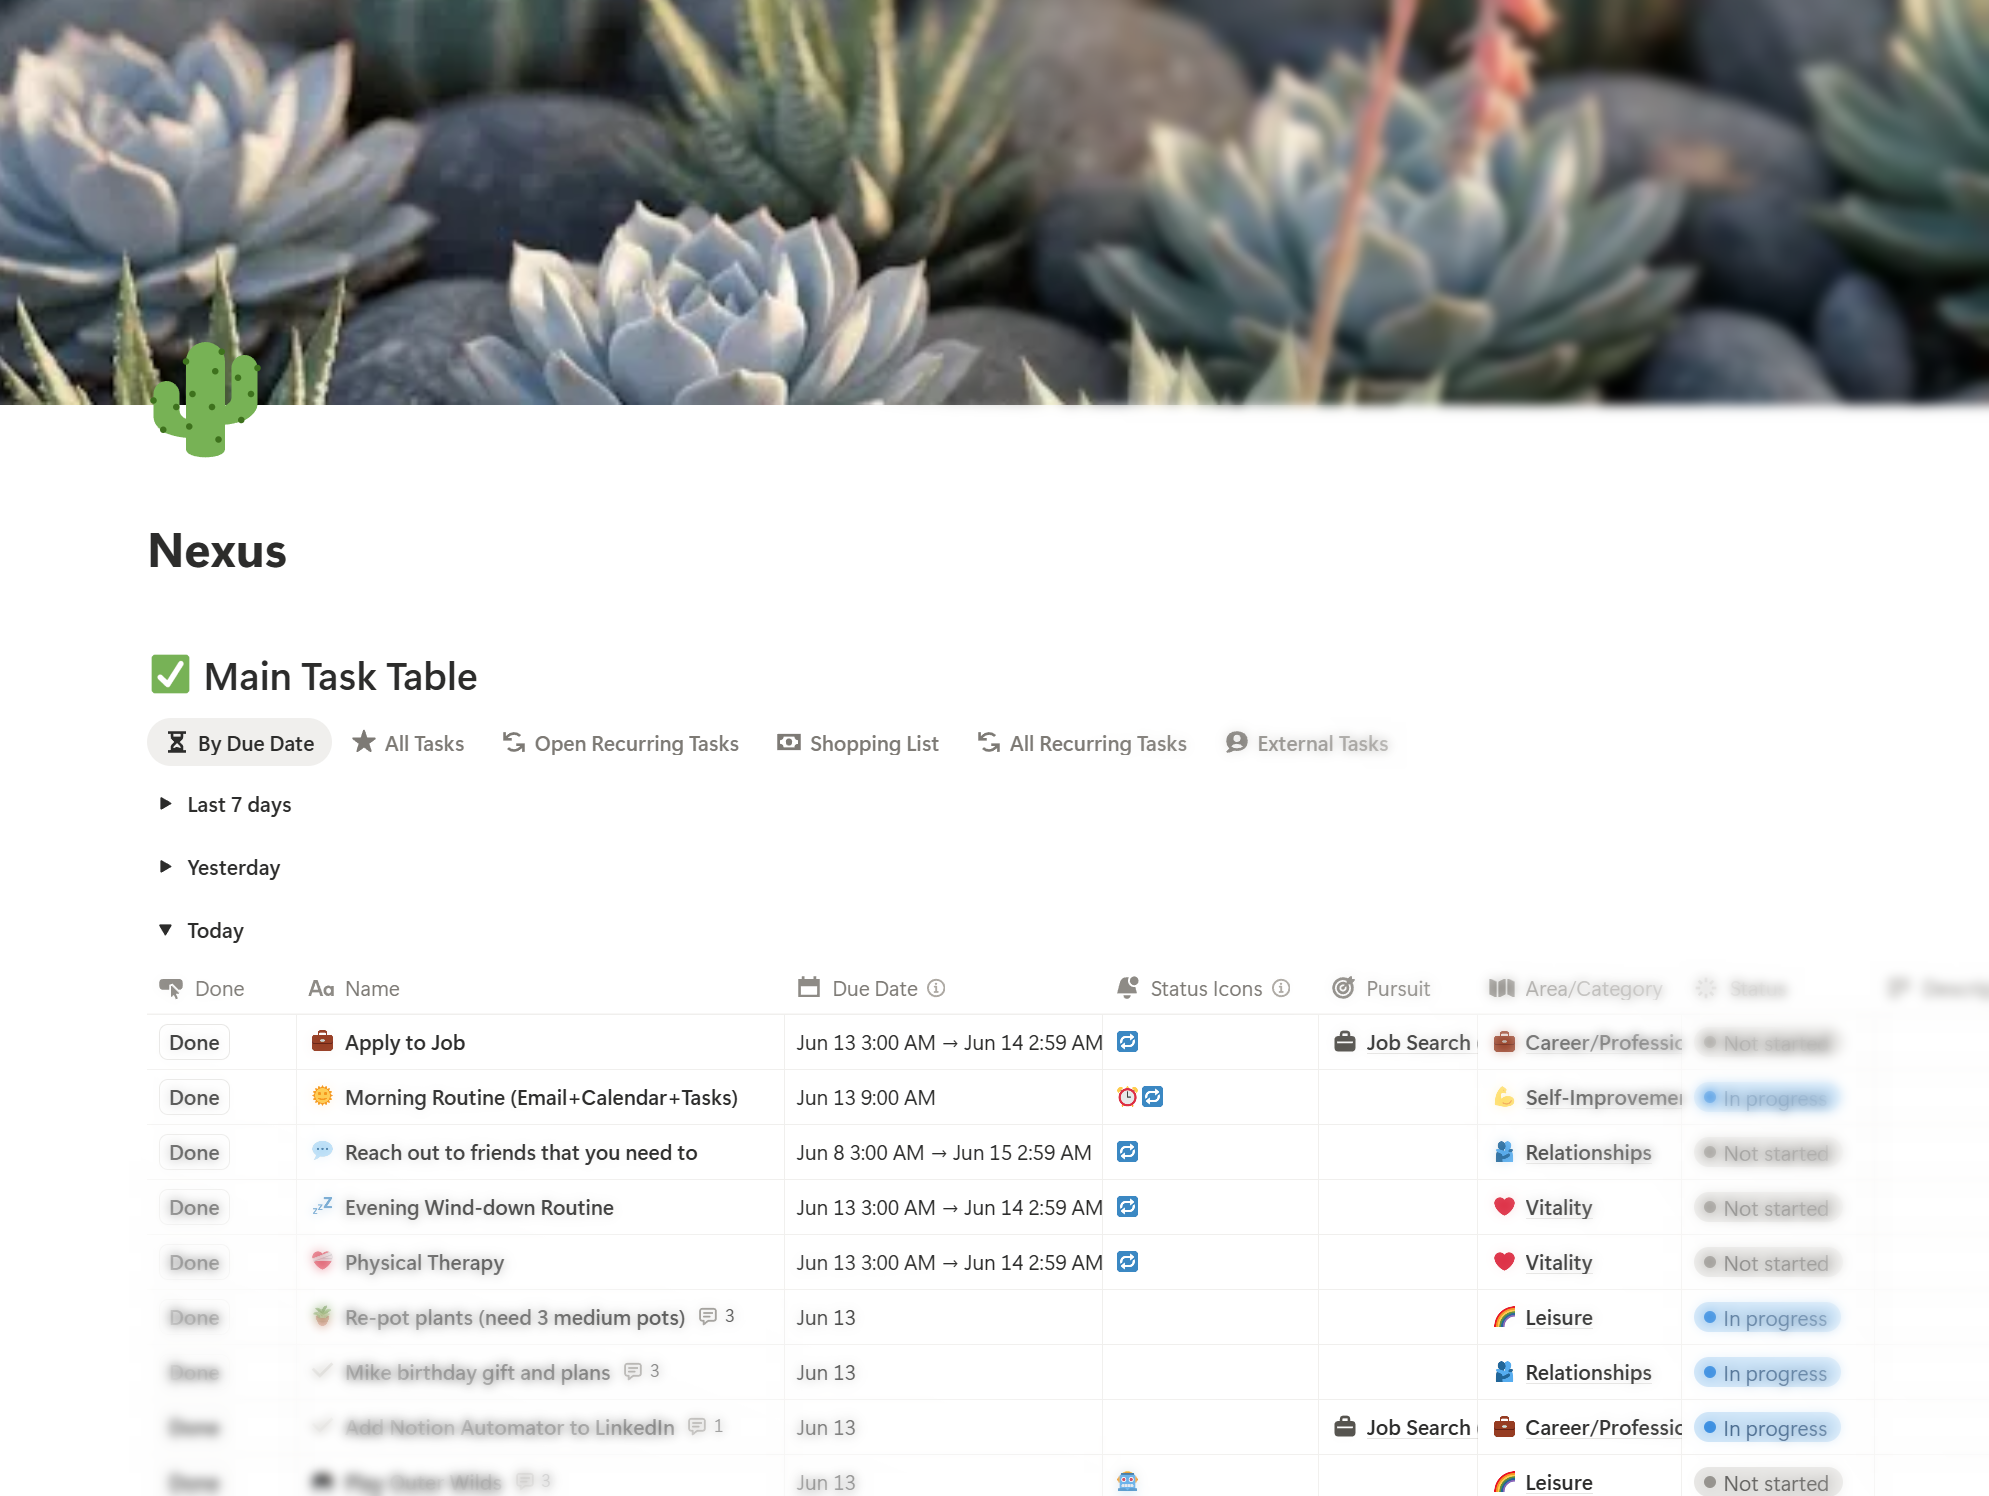
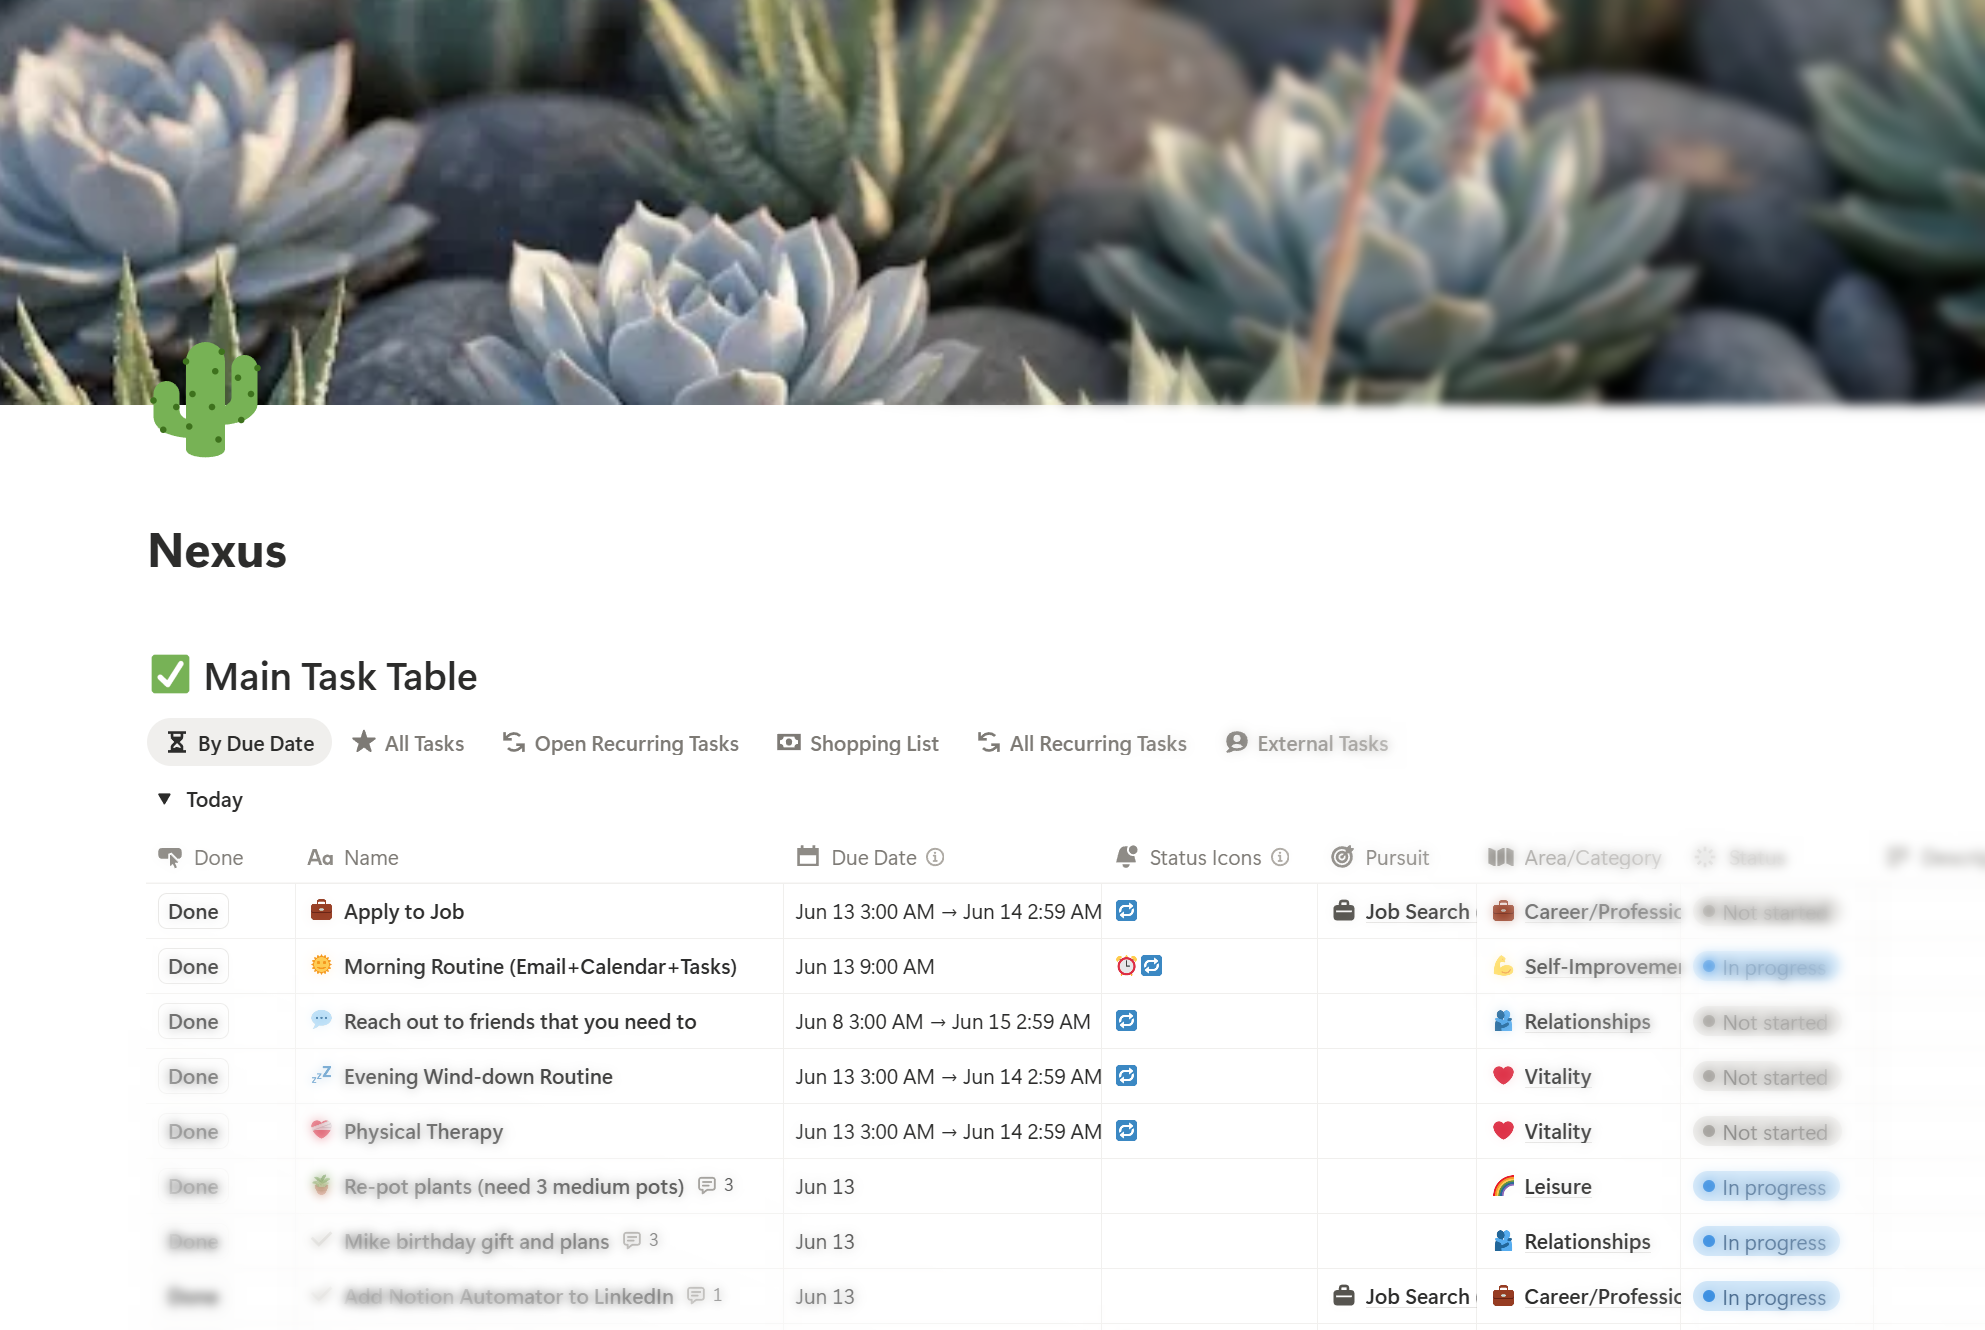
updated image

diff --git a/DESIGN.md b/DESIGN.md
@@ -362,7 +362,7 @@ The definitions database is created manually by the user (see README §6). Autom
 | Last Completed         | Rollup                 | Max of `Closed Date` from related tasks (Notion-computed)                                                                                                                                                                                                                                    |
 | Number of Open Tasks   | Rollup                 | Count of related tasks where `Is Open` = true (Notion-computed via checkbox formula workaround — see §7.1 Is Open field)                                                                                                                                                                     |
 | Bot Notes              | Rich Text              | **Bot-managed.** Written by GOVERNANCE functions via the Bot Notes accumulator. Contains a bulleted list of current issues (e.g. duplicate name warning). Cleared automatically when all issues are resolved. User should not edit — content is overwritten each governance run.             |
-| Current Open Taskss    | Relation → MT Database | **Notion field not yet created — see PLANNED.md.** Bot tracks open tasks per RTD in memory; this Relation field exposes that tracking as a Notion property. Planned to hold all current bot-tracked open tasks (multi-relation). Required for deletion detection and one-click close button. |
+| Current Open Tasks     | Relation → MT Database | **Notion field not yet created — see PLANNED.md.** Bot tracks open tasks per RTD in memory; this Relation field exposes that tracking as a Notion property. Planned to hold all current bot-tracked open tasks (multi-relation). Required for deletion detection and one-click close button. |
 | Description            | Rich Text              |                                                                                                                                                                                                                                                                                              |
 
 
@@ -376,7 +376,7 @@ Fields specific to recurring task functionality are named with the suffix `(Recu
 | Occurrence # this Period (Recurring Task) | Number             | Set by bot at creation; see counting rules below                                                                                                                                                                                                                                                                      |
 | Period Key (Recurring Task)               | Text               | **Display-only label** set by bot (e.g. `2026-04`, `W-2026-05-25`). Weekly format is `W-YYYY-MM-DD` using the week-start date. Never read by bot logic for period comparisons — period membership is always derived from Due Date (open tasks) or Closed Date (closed tasks).                                         |
 | Period Target (Recurring Task)            | Text               | Human-readable goal set by bot (e.g. `Minimum 3 per Week`)                                                                                                                                                                                                                                                            |
-| Ignore Grace Period (Recurring Task)      | Checkbox           | Default: False. Bot sets to True when a user re-opens a Responsibility task from the Complete group. Once True, **never reset by the bot** — that task instance is permanently ignored by grace period auto-close. The user owns closure entirely. New tasks created from this task's closure start fresh with False. |
+| Ignore Grace Period (Recurring Task)      | Checkbox           | Default: False. Bot sets to True when a user re-opens a Responsibility task from the Complete group. **Users may also set this manually** on any Responsibility task instance to prevent auto-cancellation for that specific task — useful when a task has been customized (e.g. renamed, due date adjusted) and should not be cancelled by the grace period cron. Once True, **never reset by the bot** — that task instance is permanently ignored by grace period auto-close. The user owns closure entirely. New tasks created from this task's closure start fresh with False. |
 | Is Open                                   | Formula → Checkbox | `prop("Status") == "Not started" or prop("Status") == "In progress" or prop("Status") == "On hold"`. Used as rollup target for "Number of Open Tasks" on the RTD. User-created Notion formula — bot never writes it.                                                                                                  |
 | Manual Created Date                       | Date               | User-managed only — bot never writes this. For retroactively created tasks; provides accurate dates for reporting. No effect on bot logic.                                                                                                                                                                            |
 
@@ -616,12 +616,12 @@ Resolved design decisions. Each entry states the rule and the reason so future c
 - Always-on; not config-controlled. Configurable field inheritance belongs in the Automation Hub.
 
 **[RTD optional field defaults] Empty or unrecognized RTD field values use safe defaults rather than erroring.**
-- `Type` empty or unknown → default to `"Habit"`, log a WARNING. Habit is the least-destructive default: no grace period, no auto-cancel, no quota logic.
+- `Type` empty, `"None"`, or unrecognized → skip the RTD silently (debug log for empty/"None"; WARNING for unrecognized values). No default type is applied — an unconfigured RTD creates no tasks until Type is set.
 - `Anchor Time` empty → no time constraint; Due Date is a date range covering the full period.
 - `Anchor Day` empty → full period range. (Previously produced an end-of-period anchor for non-Day periods; changed to full range for consistency with the Due Date Sort formula pattern.)
 - `Grace Period` empty or None → treat as 0 (cancel on due date, no buffer).
 - `Anchor Time` set without `Anchor Day` on non-Day periods → Anchor Time is ignored, full period range returned, WARNING logged. Anchor Time is only meaningful paired with an Anchor Day target day.
-- All three Type guard sites in `recurring_tasks.py` apply this default: `_create_next_task`, `run_recurring_governance`, and the init block of `auto_recurring_tasks`.
+- All three Type guard sites in `recurring_tasks.py` apply this behavior: `_create_next_task`, `run_recurring_governance`, and the init block of `auto_recurring_tasks`.
 
 ---
 
@@ -700,6 +700,7 @@ Resolved design decisions. Each entry states the rule and the reason so future c
 - New tasks created when the task eventually closes start with `False` (default) — fresh slate.
 - Trigger: bot sets True on **all** Responsibility re-opens (Complete → non-Complete transition), regardless of whether Grace Period is currently set or Do Not Autoclose is True on the RTD.
 - Reason for universal trigger: if the RTD later gains a Grace Period or Do Not Autoclose is changed, an already-reopened task would be unexpectedly auto-cancelled. The re-open is a fact about the task instance, not about the RTD's configuration at that moment. Keeping the flag clean at the cost of a True-when-unnecessary checkbox is far preferable to a surprising bot cancellation.
+- **Users may also set this manually.** Checking it directly on a specific task instance has the same effect — the grace period cron skips that task. Useful when a task has been customized (e.g. renamed, due date adjusted for a one-off) and should not be auto-cancelled.
 
 **[`auto_closed_date`] Renamed from `auto_last_closed`. Field renamed from `Last Closed` to `Closed Date`.**
 - On close: recurring tasks respect a user-set `Closed Date`; non-recurring tasks always stamp with `now()`.

diff --git a/README.md b/README.md
@@ -29,7 +29,7 @@ Notion's built-in automations are powerful but gated behind paid plans and limit
   - [6. Run as a System Service](#6-run-as-a-system-service)
 - [Closed Date Stamping](#closed-date-stamping)
 - [Reopen Count](#reopen-count)
-- [Due Date Tracking](#due-date-tracking)
+- [Field Tracking](#field-tracking)
 - [Recurring Tasks](#recurring-tasks)
 - [Adding Your Own Automations](#adding-your-own-automations)
 - [Tuning Poll Interval](#tuning-poll-interval)
@@ -310,6 +310,7 @@ Add these fields to your main tasks database:
 | Occurrence # this Period (Recurring Task) | Number   | No       | Count of completions this period; filled in by the bot                        |
 | Period Key (Recurring Task)               | Text     | No       | Display label for the current period — written by the bot, do not edit        |
 | Period Target (Recurring Task)            | Text     | No       | e.g. `Minimum 3 per Week` — set by the bot at creation                        |
+| Ignore Grace Period (Recurring Task)      | Checkbox | No       | Prevents grace-period auto-cancellation for this specific task instance. The bot sets this automatically when you reopen a Responsibility task, but you can also check it manually — useful when you've customized a task (renamed it, adjusted the due date) and don't want it auto-cancelled. New tasks from the series always start with this unchecked. |
 
 Connect your integration to both databases (`...` menu → **Add connections**).
 
@@ -410,6 +411,9 @@ The system supports one Anchor Day per series definition. To track a recurring a
 **Applying RTD config changes immediately:**
 Changing an RTD's `Period`, `Cadence Type`, or `N Cadence` doesn't trigger governance right away — the change takes effect at the next daemon startup or daily governance cron. To apply it immediately without waiting: set the RTD's Status to inactive, wait one poll cycle (default 60s), then set it back to Active. The Status → Active transition triggers an immediate governance run that drift-corrects all affected tasks. A one-click Force Governance option is planned as part of the Automation Hub.
 
+**Protecting a customized Responsibility task from auto-cancellation:**
+If you edit a specific recurring task instance — renaming it, changing the due date, scoping it to a particular case — you may not want the grace period cron to cancel it on schedule. Check `Ignore Grace Period (Recurring Task)` directly on that task. The bot will skip it during every grace period evaluation for as long as it stays open. When you close it, the next task in the series is created fresh with the checkbox unchecked, so normal behavior resumes automatically.
+
 **`Current Period` field — filtering tasks to the current period in Notion:**
 Add a `Current Period` Date field to your definitions database. Governance writes the current period's start and end datetimes to it on every governance pass. You can then use a Notion formula on your task pages to check whether a task's Due Date falls within the current period:
 
@@ -465,6 +469,5 @@ See `PLANNED.md` for full details.
 
 - **Automation Hub** — A single Notion page as the daemon's home base. Surfaces health, errors, and warnings; eventually replaces `config.toml` for behavioral settings that change frequently.
 - **Extended Cadence** — Support for cadences spanning multiple periods (bi-weekly, quarterly, etc.) with a simplified picker and a Custom mode.
-- **First Value Field Tracking** — Automatically stamp a `First [Field Name]` column with the first observed value of any configured field.
 - **Notifications** — Outbound webhook support (Discord, Telegram) for alerts on governance events.
 - **Change Tracking** — Opt-in field change log with old/new values and timestamps, feeding into reporting tools.

diff --git a/PLANNED.md b/PLANNED.md
@@ -7,6 +7,7 @@ Living design document. Sections are deleted when a feature is implemented and i
 ## Contents
 
 - [Extended Cadence (Every Y Periods)](#feature-extended-cadence-every-y-periods)
+- [Snapshot Pruning / Deleted Page Detection](#improvement-snapshot-pruning--deleted-page-detection)
 - [Governance Schema Validation](#improvement-governance-schema-validation)
 - [Schema-Check Safety Net in automations.py](#improvement-schema-check-safety-net-in-automationspy)
 - [Minimum N — Carry-Over Instead of Archive](#improvement-minimum-n-per-period--carry-over-instead-of-archive)
@@ -14,8 +15,7 @@ Living design document. Sections are deleted when a feature is implemented and i
 - [Automation Hub](#automation-hub-formerly-project-page)
 - [Notifications](#notifications)
 - [Clear Blocking/Blocked-By on Close](#clear-blockingblocked-by-on-close)
-- [First Value Field Tracking](#first-value-field-tracking)
-- [Field Update Count (Abstract)](#improvement-field-update-count-abstract)
+- [Cumulative Overdue Time Tracking](#improvement-cumulative-overdue-time-tracking)
 - [RTD Current Period Field](#improvement-rtd-current-period-field)
 - [Timer / Mission Tracking](#timer--mission-tracking)
 - [Automated Testing](#automated-testing)
@@ -106,6 +106,30 @@ Requires a migration script in `tools/` before shipping:
 - Governance Schema Validation (PLANNED) — add new fields to the validation table once implemented.
 - RTD Optional Fields Default Handling (PLANNED) — new fields need the same treatment.
 - Automation Hub — Current Period Start future-date warning surfaces in Hub Section 2.
+
+---
+
+## Improvement: Snapshot Pruning / Deleted Page Detection
+
+**Status:** Pre-design
+**One-liner:** Remove deleted Notion pages from the in-memory snapshot so stale entries do not accumulate across sessions or cause confusion after manual task deletion.
+
+### Problem
+
+`poll_database` initialises each new snapshot from a copy of the previous one (`new_snapshot = dict(snapshot)`). Pages deleted from Notion simply stop appearing in API results, so they are never removed. They stay in the snapshot indefinitely. Governance self-corrects because it calls `query_database` fresh each run, but the stale snapshot can confuse the automation path when manual task manipulation (delete + reopen old task + close) desynchs state. Workaround: deactivate and reactivate the RTD to force a fresh governance pass.
+
+### Options
+
+**Option A: Governance-level exclusion.** During each governance pass, cross-reference the open tasks for each RTD against the snapshot. Any snapshot entry not returned by the live query is treated as deleted and excluded from open-task counting. Low complexity; self-contained to the governance loop.
+
+**Option B: Snapshot pruning on full poll.** Periodically run a full (non-incremental) `query_database` for each watched database and remove snapshot keys that no longer appear. More thorough but adds API calls. Natural fit for the daily governance cron.
+
+**Option C: Per-page existence check.** When a snapshot entry has not been seen in N polls, verify it with a direct `GET /v1/pages/{id}` call and drop it if archived or deleted. Most precise but most API-heavy.
+
+Option A is the right starting point. Option B is a clean addition to the existing daily cron pass.
+
+### Dependencies
+- None — self-contained daemon improvement
 
 ---
 
